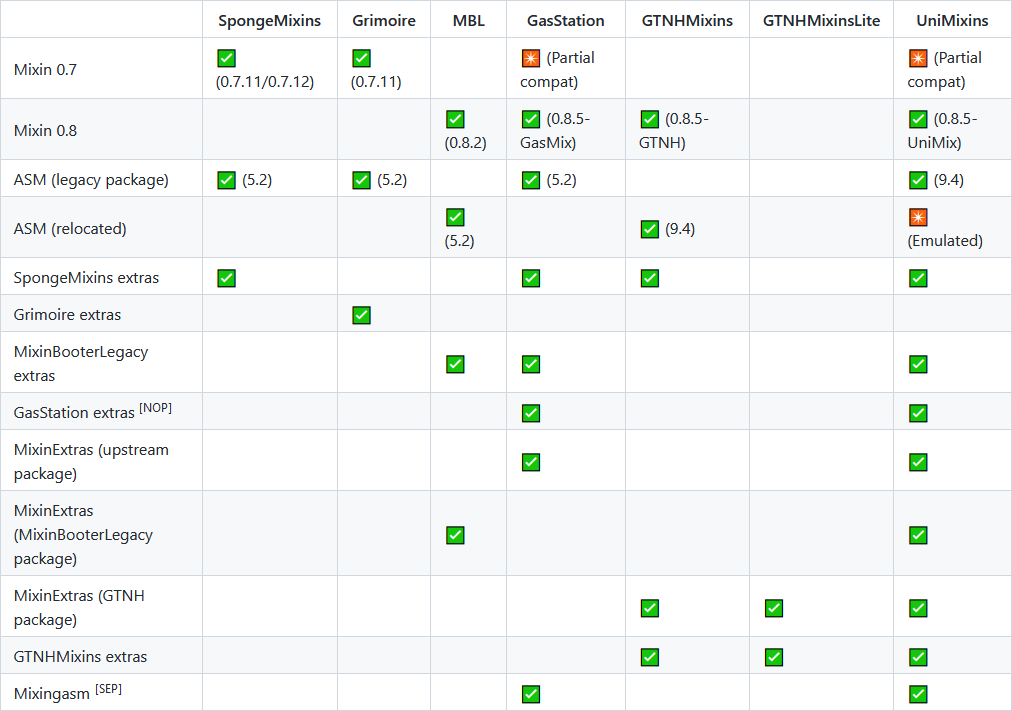
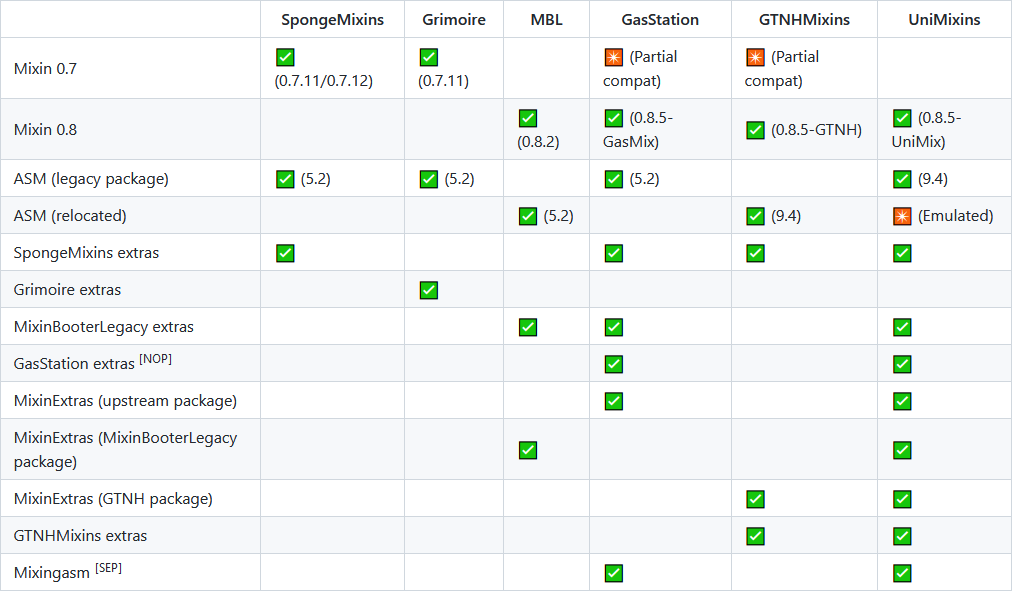
Remove GTNHMixinsLite from comparison chart [skip ci]
It's no longer relevant, it was essentially a prototype for UniMixins

diff --git a/docs/comparison-chart.md b/docs/comparison-chart.md
@@ -1,18 +1,18 @@
-|   | SpongeMixins | Grimoire | MBL | GasStation | GTNHMixins | GTNHMixinsLite | UniMixins |
-| -- | -- | -- | -- | -- | -- | -- | -- |
-| Mixin 0.7 | ✅ (0.7.11/0.7.12) | ✅ (0.7.11) | | ✴ (Partial compat) | | | ✴ (Partial compat) |
-| Mixin 0.8 | | | ✅ (0.8.2) | ✅ (0.8.5-GasMix) | ✅ (0.8.5-GTNH) | | ✅ (0.8.5-UniMix)
-| ASM (legacy package) | ✅ (5.2) | ✅ (5.2) | | ✅ (5.2) | | | ✅ (9.4) |
-| ASM (relocated) | | | ✅ (5.2) | | ✅ (9.4) | | ✴ (Emulated) |
-| SpongeMixins extras | ✅ | | | ✅ | ✅ | | ✅ |
-| Grimoire extras | | ✅ | | | | | |
-| MixinBooterLegacy extras | | | ✅ | ✅ | | | ✅ |
-| GasStation extras <sup>[NOP]</sup> | | | | ✅ | | | ✅ |
-| MixinExtras (upstream package) | | | | ✅ | | | ✅ |
-| MixinExtras (MixinBooterLegacy package) | | | ✅ | | | | ✅ |
-| MixinExtras (GTNH package) | | | | | ✅ | ✅ | ✅ |
-| GTNHMixins extras | | | | | ✅ | ✅ | ✅ |
-| Mixingasm <sup>[SEP]</sup> | | | | ✅ | | | ✅ |
+|   | SpongeMixins | Grimoire | MBL | GasStation | GTNHMixins | UniMixins |
+| -- | -- | -- | -- | -- | -- | -- |
+| Mixin 0.7 | ✅ (0.7.11/0.7.12) | ✅ (0.7.11) | | ✴ (Partial compat)  | ✴ (Partial compat) |
+| Mixin 0.8 | | | ✅ (0.8.2) | ✅ (0.8.5-GasMix) | ✅ (0.8.5-GTNH)| ✅ (0.8.5-UniMix)
+| ASM (legacy package) | ✅ (5.2) | ✅ (5.2) | | ✅ (5.2) || ✅ (9.4) |
+| ASM (relocated) | | | ✅ (5.2) | | ✅ (9.4) | ✴ (Emulated) |
+| SpongeMixins extras | ✅ | | | ✅ | ✅ | ✅ |
+| Grimoire extras | | ✅ | | | | |
+| MixinBooterLegacy extras | | | ✅ | ✅ | | ✅ |
+| GasStation extras <sup>[NOP]</sup> | | | | ✅ | | ✅ |
+| MixinExtras (upstream package) | | | | ✅ | | ✅ |
+| MixinExtras (MixinBooterLegacy package) | | | ✅ | | | ✅ |
+| MixinExtras (GTNH package) | | | | | ✅ | ✅ |
+| GTNHMixins extras | | | | | ✅ | ✅ |
+| Mixingasm <sup>[SEP]</sup> | | | | ✅ | | ✅ |
 
 * <sup>[NOP]</sup>: Module does not do anything. [(issue)](https://github.com/FalsePattern/GasStation/issues/15)
 * <sup>[SEP]</sup>: Module is available as a separate mod.
